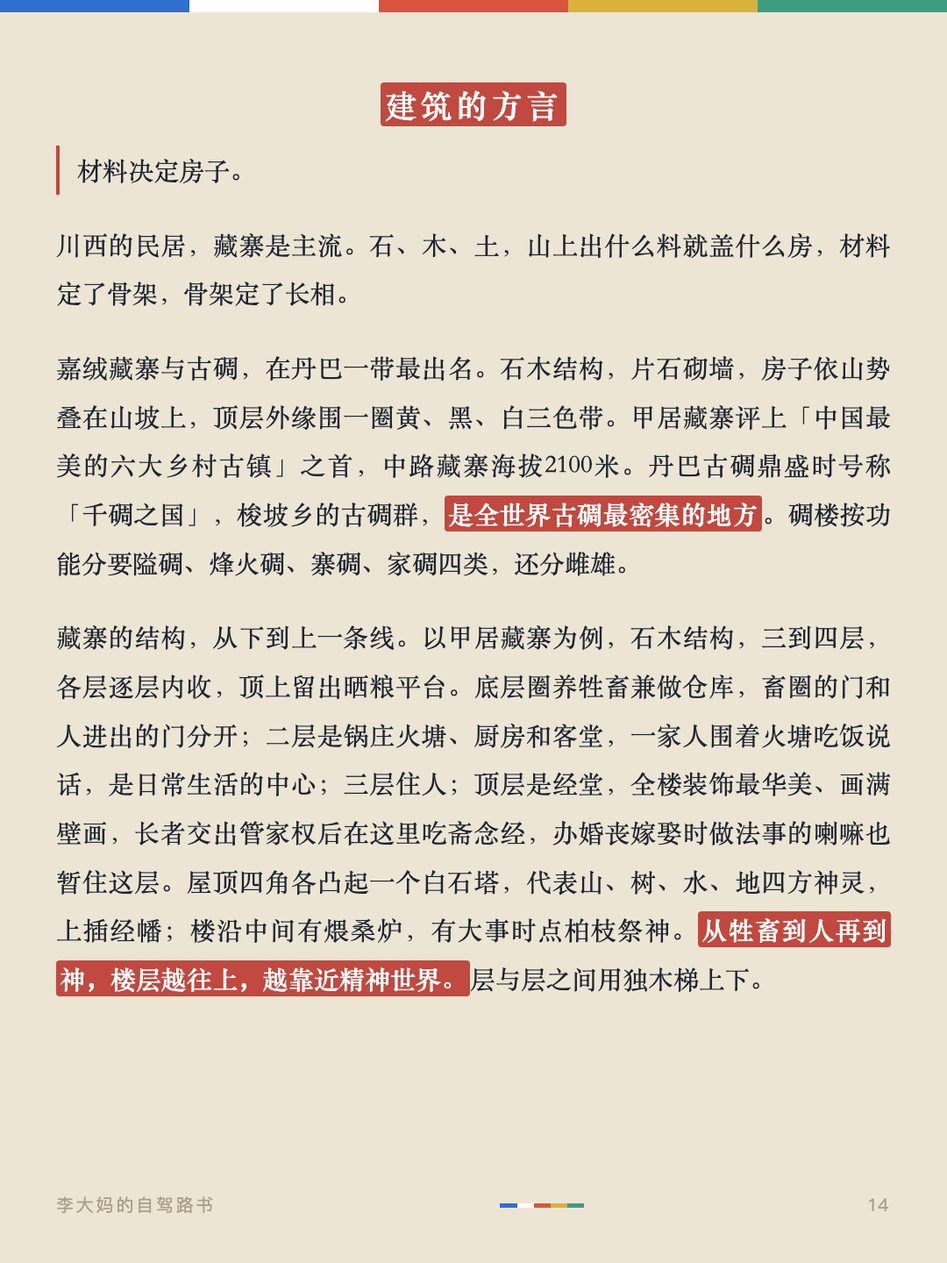
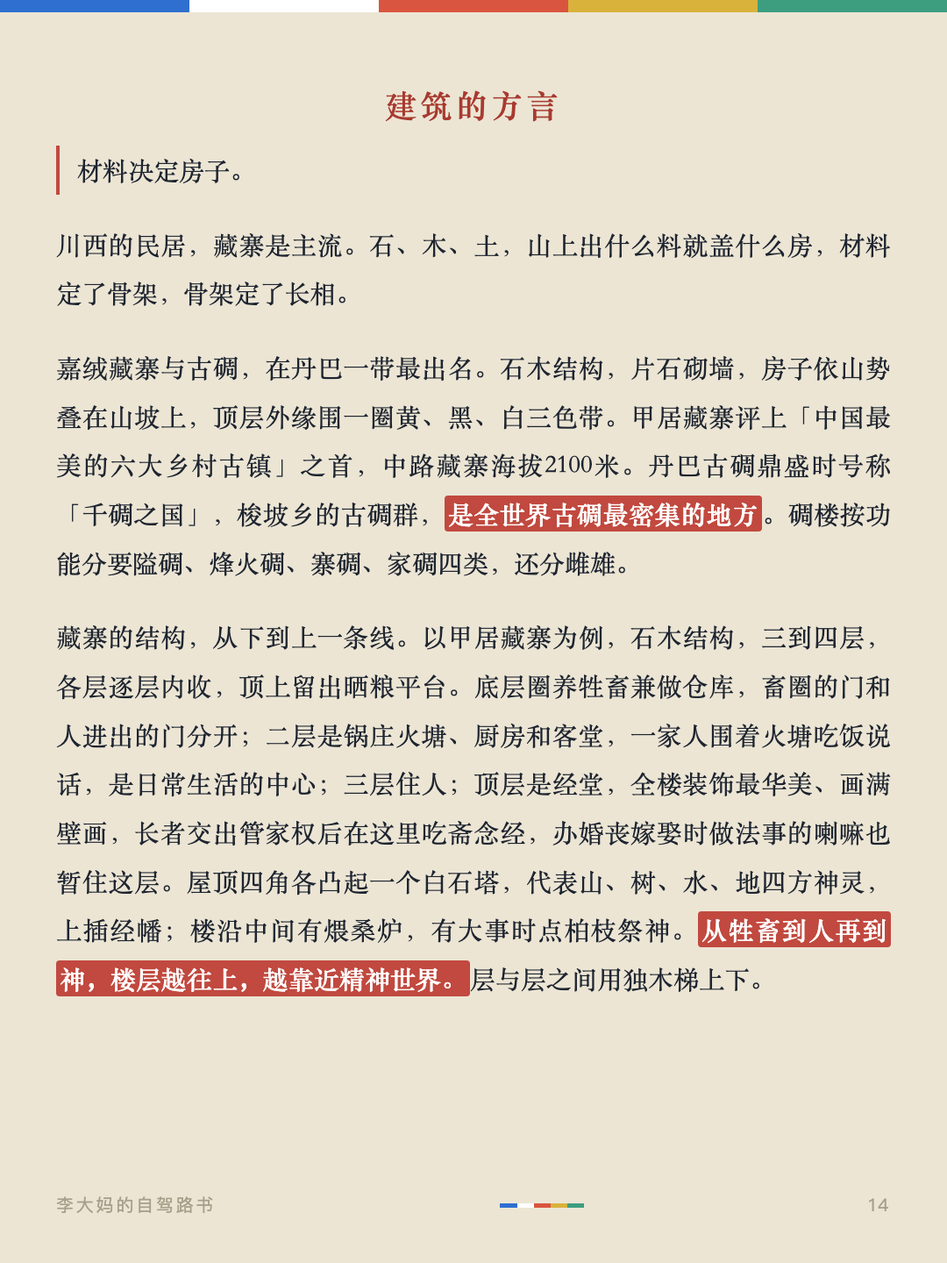
开篇六章速览章节名改红底反白；正文章节h2去strong；meta改衬线

Changed region(s): [[0.3972, 0.0625, 0.6111, 0.125]]

diff --git a/cards.html b/cards.html
@@ -57,7 +57,7 @@
     text-align:center;margin:26px 0 8px;
   }
   .card__meta{
-    font-family:var(--sans);font-size:22px;line-height:1.7;
+    font-family:var(--serif);font-size:22px;line-height:1.7;
     text-align:center;color:var(--dim);margin-bottom:6px;
   }
 
@@ -92,8 +92,8 @@
     padding:16px 2px;
   }
   .card__keys li:last-child{border-bottom:none;}
-  .card__keys li b{
-    color:var(--vermilion);font-weight:600;font-size:26px;
+  .card__keys li strong{
+    font-size:26px;
     font-family:var(--sans);letter-spacing:.06em;white-space:nowrap;
   }
 
@@ -122,33 +122,33 @@
 </head>
 <body>
 
-<div class="card" id="card1"><div class="flag" aria-hidden="true"><span style="background:var(--flag-blue)"></span><span style="background:var(--flag-white)"></span><span style="background:var(--flag-red)"></span><span style="background:var(--flag-yellow)"></span><span style="background:var(--flag-green)"></span></div><div class="card__inner"><div class="card__kicker">李大妈的自驾路书</div><h1><strong>川西自驾行前笔记</strong></h1><p class="card__intro">川西自驾是一门功课：海拔怎么排、山河怎么切、车怎么开、信仰怎么认、手艺在哪儿、房子为什么长这样。</p><p class="card__meta">我习惯在行前把零碎信息检索、整理成笔记，当出行线索。笔记更新于2026年8月18日。封路、天气、信号等信息随季节变化，出发前以官方信息为准。</p><h2>开篇　六章速览</h2><ul class="card__keys"><li><span>海拔决定秩序</span><b>一 高原的秩序</b></li> <li><span>山河决定地图</span><b>二 山河的地图</b></li> <li><span>车是腿，慢是快</span><b>三 路上的驾驶学</b></li> <li><span>看墙色认教派</span><b>四 信仰的世界</b></li> <li><span>手艺是还在运转的产业</span><b>五 手艺的文明</b></li> <li><span>材料决定房子</span><b>六 建筑的方言</b></li></ul><div class="card__foot"><span></span><span class="foot-flag" aria-hidden="true"><span style="background:var(--flag-blue)"></span><span style="background:var(--flag-white)"></span><span style="background:var(--flag-red)"></span><span style="background:var(--flag-yellow)"></span><span style="background:var(--flag-green)"></span></span><span>01</span></div></div></div>
+<div class="card" id="card1"><div class="flag" aria-hidden="true"><span style="background:var(--flag-blue)"></span><span style="background:var(--flag-white)"></span><span style="background:var(--flag-red)"></span><span style="background:var(--flag-yellow)"></span><span style="background:var(--flag-green)"></span></div><div class="card__inner"><div class="card__kicker">李大妈的自驾路书</div><h1><strong>川西自驾行前笔记</strong></h1><p class="card__intro">川西自驾是一门功课：海拔怎么排、山河怎么切、车怎么开、信仰怎么认、手艺在哪儿、房子为什么长这样。</p><p class="card__meta">我习惯在行前把零碎信息检索、整理成笔记，当出行线索。笔记更新于2026年8月18日。封路、天气、信号等信息随季节变化，出发前以官方信息为准。</p><h2>开篇　六章速览</h2><ul class="card__keys"><li><span>海拔决定秩序</span><strong>一 高原的秩序</strong></li> <li><span>山河决定地图</span><strong>二 山河的地图</strong></li> <li><span>车是腿，慢是快</span><strong>三 路上的驾驶学</strong></li> <li><span>看墙色认教派</span><strong>四 信仰的世界</strong></li> <li><span>手艺是还在运转的产业</span><strong>五 手艺的文明</strong></li> <li><span>材料决定房子</span><strong>六 建筑的方言</strong></li></ul><div class="card__foot"><span></span><span class="foot-flag" aria-hidden="true"><span style="background:var(--flag-blue)"></span><span style="background:var(--flag-white)"></span><span style="background:var(--flag-red)"></span><span style="background:var(--flag-yellow)"></span><span style="background:var(--flag-green)"></span></span><span>01</span></div></div></div>
 
 <div class="card" id="card2"><div class="flag" aria-hidden="true"><span style="background:var(--flag-blue)"></span><span style="background:var(--flag-white)"></span><span style="background:var(--flag-red)"></span><span style="background:var(--flag-yellow)"></span><span style="background:var(--flag-green)"></span></div><div class="card__inner"><h3>与人相处</h3><p><strong>牧民。</strong> 牛羊是牧民的主要家当。遇到牧群，放慢车速、不鸣笛，等它们过。拍牧民和牲畜，先打招呼再举相机。牧场的帐篷和围栏，不随便进。</p><p><strong>匠人。</strong> 进工坊先问能不能看，问手艺、问工序，匠人愿意聊就聊。工具和材料不上手碰。买现货，半成品和机压仿品不碰。</p><p><strong>僧侣。</strong> 称呼用「师父」或「上师」。进大殿脱帽、轻声、顺时针走，不拍照、不指佛像。法会时安静看，不打断、不围观起哄。</p><p><strong>司机和本地人。</strong> 见面一句「扎西德勒」，气氛就开了。问路、问价，态度客气，多数人都愿意答。高原上的人大多直接，不绕弯，打交道也直接。</p><p><strong>买东西。</strong> 讲好价就认，不反复缠价。看上了再还价，压完不买最伤和气。</p><p><strong>拍照。</strong> 拍人先问，拍寺院内部和法会先看有没有禁令。相机镜头对着人的时候，先问一句，多数人会同意的。</p><div class="card__foot"><span>李大妈的自驾路书</span><span class="foot-flag" aria-hidden="true"><span style="background:var(--flag-blue)"></span><span style="background:var(--flag-white)"></span><span style="background:var(--flag-red)"></span><span style="background:var(--flag-yellow)"></span><span style="background:var(--flag-green)"></span></span><span>02</span></div></div></div>
 
-<div class="card" id="card3"><div class="flag" aria-hidden="true"><span style="background:var(--flag-blue)"></span><span style="background:var(--flag-white)"></span><span style="background:var(--flag-red)"></span><span style="background:var(--flag-yellow)"></span><span style="background:var(--flag-green)"></span></div><div class="card__inner"><h2><strong>高原的秩序</strong></h2><p class="card__lead">海拔决定秩序。</p><p>进川西先认海拔。<strong>3000米是一道门槛</strong>，多数人的高反从这里开始。行程按海拔排，不按景点排：一天的路程控制在两三小时山路，下午留白看天，天气不对就提前收车。景点不会消失，路况和天气才是当天的变量。</p><p>窗口期。<strong>5到6月、9到10月中是全年最稳的时段</strong>。雨季6到8月以夜雨为主，白天多数能走。冬季也能走，但救援半径长，一台车陷在无人垭口，代价远超省下的时间。</p><p>防高反。从低到高慢慢爬，头两天不在3500米以上过夜。氧气不足的典型信号是头痛、睡不着、没胃口，多数人两三天能适应。乙酰唑胺遵医嘱提前吃，布洛芬缓解头痛，红景天提前一周吃，只作辅助。指夹式血氧仪测血氧，<strong>掉到90%以下就停，不硬撑</strong>。夜里头痛加重、白天精神很差、走路发飘，是危险信号，撤到低海拔。</p><p>补给认准县城。<strong>进县城加满油</strong>，一离开县城就默认补给消失，往深处走，一律当天往返。</p><p>离线地图出发前下好，<strong>自救物资可以不用，但不能没有</strong>。冬季走，车上常备防滑链。</p><div class="card__foot"><span>李大妈的自驾路书</span><span class="foot-flag" aria-hidden="true"><span style="background:var(--flag-blue)"></span><span style="background:var(--flag-white)"></span><span style="background:var(--flag-red)"></span><span style="background:var(--flag-yellow)"></span><span style="background:var(--flag-green)"></span></span><span>03</span></div></div></div>
+<div class="card" id="card3"><div class="flag" aria-hidden="true"><span style="background:var(--flag-blue)"></span><span style="background:var(--flag-white)"></span><span style="background:var(--flag-red)"></span><span style="background:var(--flag-yellow)"></span><span style="background:var(--flag-green)"></span></div><div class="card__inner"><h2>高原的秩序</h2><p class="card__lead">海拔决定秩序。</p><p>进川西先认海拔。<strong>3000米是一道门槛</strong>，多数人的高反从这里开始。行程按海拔排，不按景点排：一天的路程控制在两三小时山路，下午留白看天，天气不对就提前收车。景点不会消失，路况和天气才是当天的变量。</p><p>窗口期。<strong>5到6月、9到10月中是全年最稳的时段</strong>。雨季6到8月以夜雨为主，白天多数能走。冬季也能走，但救援半径长，一台车陷在无人垭口，代价远超省下的时间。</p><p>防高反。从低到高慢慢爬，头两天不在3500米以上过夜。氧气不足的典型信号是头痛、睡不着、没胃口，多数人两三天能适应。乙酰唑胺遵医嘱提前吃，布洛芬缓解头痛，红景天提前一周吃，只作辅助。指夹式血氧仪测血氧，<strong>掉到90%以下就停，不硬撑</strong>。夜里头痛加重、白天精神很差、走路发飘，是危险信号，撤到低海拔。</p><p>补给认准县城。<strong>进县城加满油</strong>，一离开县城就默认补给消失，往深处走，一律当天往返。</p><p>离线地图出发前下好，<strong>自救物资可以不用，但不能没有</strong>。冬季走，车上常备防滑链。</p><div class="card__foot"><span>李大妈的自驾路书</span><span class="foot-flag" aria-hidden="true"><span style="background:var(--flag-blue)"></span><span style="background:var(--flag-white)"></span><span style="background:var(--flag-red)"></span><span style="background:var(--flag-yellow)"></span><span style="background:var(--flag-green)"></span></span><span>03</span></div></div></div>
 
-<div class="card" id="card4"><div class="flag" aria-hidden="true"><span style="background:var(--flag-blue)"></span><span style="background:var(--flag-white)"></span><span style="background:var(--flag-red)"></span><span style="background:var(--flag-yellow)"></span><span style="background:var(--flag-green)"></span></div><div class="card__inner"><h2><strong>山河的地图</strong></h2><p class="card__lead">山河决定地图。山脉怎么切，路就怎么修。</p><p>川西怎么来的。约4000万到5000万年前，印度板块撞上欧亚板块，把一片浅海抬成陆地，就是青藏高原，川西在高原的东南缘。碰撞到现在没停，高原还在缓慢升高。</p><p>山脉全是南北走向。横断山把川西切成一列列山岭，从东往西：邛崃山，四姑娘山在主脊上；大雪山，贡嘎山海拔7508.9米，蜀山之王；沙鲁里山；雀儿山。山与山之间夹着河谷，路顺着河谷修，镇子落在河谷里。<strong>川西的聚落跟着山河走，不跟着行政区划走。</strong></p><p>河流往三处去。东部是大渡河，小金、金川、丹巴都在它的水系里；雅砻江从甘孜县城边流过；金沙江是德格的西界，德格县城在金沙江东岸。三条江各走各的，最后都汇进长江。</p><p>海子是古冰川留下的湖。冰期冰川刨出的洼地积水成湖，理塘到稻城之间的海子山，古冰川退去后留下1145个高原湖泊。单个看，康定的木格措、九龙的伍须海、巴塘的措普湖各有各的颜色，德格雀儿山下的新路海紧挨着雪峰。</p><p>川西地震多，因为它在鲜水河断裂带上。这条断裂带从中部纵贯，历史上强震不断。对旅行者，最实在的是<strong>路况随时可能因塌方管制</strong>；很多陡崖和河谷的走向，就是断裂带运动的痕迹。</p><div class="card__foot"><span>李大妈的自驾路书</span><span class="foot-flag" aria-hidden="true"><span style="background:var(--flag-blue)"></span><span style="background:var(--flag-white)"></span><span style="background:var(--flag-red)"></span><span style="background:var(--flag-yellow)"></span><span style="background:var(--flag-green)"></span></span><span>04</span></div></div></div>
+<div class="card" id="card4"><div class="flag" aria-hidden="true"><span style="background:var(--flag-blue)"></span><span style="background:var(--flag-white)"></span><span style="background:var(--flag-red)"></span><span style="background:var(--flag-yellow)"></span><span style="background:var(--flag-green)"></span></div><div class="card__inner"><h2>山河的地图</h2><p class="card__lead">山河决定地图。山脉怎么切，路就怎么修。</p><p>川西怎么来的。约4000万到5000万年前，印度板块撞上欧亚板块，把一片浅海抬成陆地，就是青藏高原，川西在高原的东南缘。碰撞到现在没停，高原还在缓慢升高。</p><p>山脉全是南北走向。横断山把川西切成一列列山岭，从东往西：邛崃山，四姑娘山在主脊上；大雪山，贡嘎山海拔7508.9米，蜀山之王；沙鲁里山；雀儿山。山与山之间夹着河谷，路顺着河谷修，镇子落在河谷里。<strong>川西的聚落跟着山河走，不跟着行政区划走。</strong></p><p>河流往三处去。东部是大渡河，小金、金川、丹巴都在它的水系里；雅砻江从甘孜县城边流过；金沙江是德格的西界，德格县城在金沙江东岸。三条江各走各的，最后都汇进长江。</p><p>海子是古冰川留下的湖。冰期冰川刨出的洼地积水成湖，理塘到稻城之间的海子山，古冰川退去后留下1145个高原湖泊。单个看，康定的木格措、九龙的伍须海、巴塘的措普湖各有各的颜色，德格雀儿山下的新路海紧挨着雪峰。</p><p>川西地震多，因为它在鲜水河断裂带上。这条断裂带从中部纵贯，历史上强震不断。对旅行者，最实在的是<strong>路况随时可能因塌方管制</strong>；很多陡崖和河谷的走向，就是断裂带运动的痕迹。</p><div class="card__foot"><span>李大妈的自驾路书</span><span class="foot-flag" aria-hidden="true"><span style="background:var(--flag-blue)"></span><span style="background:var(--flag-white)"></span><span style="background:var(--flag-red)"></span><span style="background:var(--flag-yellow)"></span><span style="background:var(--flag-green)"></span></span><span>04</span></div></div></div>
 
 <div class="card" id="card5"><div class="flag" aria-hidden="true"><span style="background:var(--flag-blue)"></span><span style="background:var(--flag-white)"></span><span style="background:var(--flag-red)"></span><span style="background:var(--flag-yellow)"></span><span style="background:var(--flag-green)"></span></div><div class="card__inner"><p>植被随海拔分层，从山谷到垭口一路换。2500米以下是针阔混交林；2500到3500米是云杉冷杉的针叶林，高山杜鹃夹在林里；3500到4500米是高山灌丛和高山草甸，冬虫夏草、雪茶都长在这一层；4500米以上是流石滩，雪莲贴着碎石长。<strong>同一条路翻几座山，一天走完四个植被带，别处南北几千公里才有的植被变化，在这里按海拔一层层排</strong>。</p><p>吃的也跟海拔走。青稞是高原的当家作物，炒熟磨成糌粑，拌上酥油茶捏成团，是藏人的日常主食；酥油茶用砖茶和酥油熬，热量高、解渴御寒，当地有<strong>「宁可三日无肉，不可一日无茶」</strong>的说法。牦牛在海拔3500米以上放养，肉干、火锅、炖汤都常见；血肠是待客的上等菜，牛血或羊血和肉丁灌进小肠煮熟。松茸这类菌子长在森林里，集中在金沙江、雅砻江、大渡河上中游的高山峡谷，夏秋雨后出得多，炖鸡、涮锅都常吃。这些不用刻意找，路边饭馆的菜单上就有。</p><div class="card__foot"><span>李大妈的自驾路书</span><span class="foot-flag" aria-hidden="true"><span style="background:var(--flag-blue)"></span><span style="background:var(--flag-white)"></span><span style="background:var(--flag-red)"></span><span style="background:var(--flag-yellow)"></span><span style="background:var(--flag-green)"></span></span><span>05</span></div></div></div>
 
-<div class="card" id="card6"><div class="flag" aria-hidden="true"><span style="background:var(--flag-blue)"></span><span style="background:var(--flag-white)"></span><span style="background:var(--flag-red)"></span><span style="background:var(--flag-yellow)"></span><span style="background:var(--flag-green)"></span></div><div class="card__inner"><h2><strong>路上的驾驶学</strong></h2><p class="card__lead">车是腿，慢是快。一半技术，一半克制。</p><p>川西路上要让的，是大货车和牧民的牛羊。弯道不超车。<strong>让路是这条路的默认礼节</strong>。</p><p>高原开车有两个隐性风险。长下坡一直踩刹车会热衰减，要用低挡位和发动机制动；超车动力衰减，要留出比平原长得多的余量。冰雪路面上，四驱也一样打滑，<strong>慢才是安全</strong>。</p><p>手机信号在县城和景区都有，支线基本没有。<strong>离开主路之前，给家人或朋友发一个位置</strong>，让他们知道人在哪。进了支线，信号就断了，把没信号当默认状态。应急手段：中国电信有手机直连卫星业务，华为、小米等部分手机开通后，不换卡不换号就能在无信号区通话、发定位；雅安318自驾大本营有全国首个城市卫星服务站，可以租天通卫星设备，按天十元左右。</p><h3>加油</h3><p>加油站集中在县城和几个大镇，见油就加。认准中石油、中石化，避开私人黑站。理塘到稻城之间约200公里没有加油站，G317甘孜到德格一带靠马尼干戈这类节点补给。<strong>油箱过半就找下一个县城</strong>。</p><div class="card__foot"><span>李大妈的自驾路书</span><span class="foot-flag" aria-hidden="true"><span style="background:var(--flag-blue)"></span><span style="background:var(--flag-white)"></span><span style="background:var(--flag-red)"></span><span style="background:var(--flag-yellow)"></span><span style="background:var(--flag-green)"></span></span><span>06</span></div></div></div>
+<div class="card" id="card6"><div class="flag" aria-hidden="true"><span style="background:var(--flag-blue)"></span><span style="background:var(--flag-white)"></span><span style="background:var(--flag-red)"></span><span style="background:var(--flag-yellow)"></span><span style="background:var(--flag-green)"></span></div><div class="card__inner"><h2>路上的驾驶学</h2><p class="card__lead">车是腿，慢是快。一半技术，一半克制。</p><p>川西路上要让的，是大货车和牧民的牛羊。弯道不超车。<strong>让路是这条路的默认礼节</strong>。</p><p>高原开车有两个隐性风险。长下坡一直踩刹车会热衰减，要用低挡位和发动机制动；超车动力衰减，要留出比平原长得多的余量。冰雪路面上，四驱也一样打滑，<strong>慢才是安全</strong>。</p><p>手机信号在县城和景区都有，支线基本没有。<strong>离开主路之前，给家人或朋友发一个位置</strong>，让他们知道人在哪。进了支线，信号就断了，把没信号当默认状态。应急手段：中国电信有手机直连卫星业务，华为、小米等部分手机开通后，不换卡不换号就能在无信号区通话、发定位；雅安318自驾大本营有全国首个城市卫星服务站，可以租天通卫星设备，按天十元左右。</p><h3>加油</h3><p>加油站集中在县城和几个大镇，见油就加。认准中石油、中石化，避开私人黑站。理塘到稻城之间约200公里没有加油站，G317甘孜到德格一带靠马尼干戈这类节点补给。<strong>油箱过半就找下一个县城</strong>。</p><div class="card__foot"><span>李大妈的自驾路书</span><span class="foot-flag" aria-hidden="true"><span style="background:var(--flag-blue)"></span><span style="background:var(--flag-white)"></span><span style="background:var(--flag-red)"></span><span style="background:var(--flag-yellow)"></span><span style="background:var(--flag-green)"></span></span><span>06</span></div></div></div>
 
 <div class="card" id="card7"><div class="flag" aria-hidden="true"><span style="background:var(--flag-blue)"></span><span style="background:var(--flag-white)"></span><span style="background:var(--flag-red)"></span><span style="background:var(--flag-yellow)"></span><span style="background:var(--flag-green)"></span></div><div class="card__inner"><h3>充电</h3><p>川西这两年变化快。2025年6月甘孜州18个公路养护站和14个快充站投运，理塘到稻城段充电桩最大间距125公里；318沿线超300个充电桩，快充占七成以上。密度从东往西递减：成都到康定每30到50公里一个快充；康定、新都桥、雅江、理塘每80到150公里；理塘往稻城亚丁、新都桥往塔公八美每150到200公里。冷嘎措、格聂、若尔盖穿越段还是盲区。实际体验要打折：约一成五的桩故障或被燃油车占位，节假日热门站排队可能超一小时。高原续航缩水约三四成。<strong>电量低于三成就找桩</strong>，进景区前在县城充到八成以上。查桩用特来电、国网e充电、星星充电的App，或高德的新能源模式。</p><h3>封路信息</h3><p>两类封路最常见：汛期6到8月塌方落石，抢修期间半幅放行或管制；冬季11月到次年3、4月冬管，比如九绵高速夜间20点到次日8点禁行，夹金山段整个冬天双向禁行，理小路冬天全段禁行。截至2026年8月17日，阿坝州正实行货车临时管制（过境4轴及以上货车白天7点到21点禁行），同时处在汛期，山洪预警可能随时发布。<strong>G317马尔康到观音桥段，自2025年11月红旗特大桥垮塌后一直中断</strong>，绕行走壤塘、阿坝、红原方向，约多3小时；官方便道工程预计2026年9月底至10月初通车。官方渠道：阿坝州政府官网阿坝路况专栏、四川发布和成都发布公众号、高速救援12122、报警96122。<strong>官方路况和高德，出发当天交叉核对</strong>。</p><div class="card__foot"><span>李大妈的自驾路书</span><span class="foot-flag" aria-hidden="true"><span style="background:var(--flag-blue)"></span><span style="background:var(--flag-white)"></span><span style="background:var(--flag-red)"></span><span style="background:var(--flag-yellow)"></span><span style="background:var(--flag-green)"></span></span><span>07</span></div></div></div>
 
-<div class="card" id="card8"><div class="flag" aria-hidden="true"><span style="background:var(--flag-blue)"></span><span style="background:var(--flag-white)"></span><span style="background:var(--flag-red)"></span><span style="background:var(--flag-yellow)"></span><span style="background:var(--flag-green)"></span></div><div class="card__inner"><h2><strong>信仰的世界</strong></h2><p class="card__lead">看墙色，认教派。</p><p>川西在藏文化版图里的位置。藏区习惯分成三大块：拉萨一带的卫藏，青海甘肃的安多，还有以甘孜、昌都为核心的康巴。康巴人性格外放，「康巴汉子」的名声就是这么来的。和卫藏、安多不同，川西<strong>没有哪个教派一家独大</strong>。甘孜州登记的藏传佛教寺院有515座，宁玛、格鲁、萨迦、噶举、苯教五大教派齐全，哪个都占不到一半。一次看全这些派别，别处凑不齐。</p><p>认教派，看寺庙外墙的颜色。宁玛派叫<strong>红教</strong>，是最古老的派别，多随牧区分布。萨迦派叫<strong>花教</strong>，寺墙刷红、白、黑三色条纹，据说是文殊、观音、金刚手三位菩萨的象征。噶举派叫<strong>白教</strong>，叫法来自早期僧人穿白衣的传承，四川藏区的祖寺是德格的八邦寺。格鲁派叫<strong>黄教</strong>，传入最晚，理塘的长青春科尔寺是康区最早的格鲁派寺院。还有苯教，比藏传佛教更古老的本地信仰，没有对应的颜色称呼，它在川西的地位比在西藏老家还高，<strong>阿坝县的郎依寺，是国内外现存规模最大的苯教寺院</strong>，阿坝金川的雍忠拉顶寺一带被称为「第二象雄」——也就是苯教文化的第二个中心。</p><p>最特别的是德格。历代德格土司推行「不分教派、一律扶持」的政策，硬是把五大教派全留在自家地盘上，这在藏区很少见，<strong>德格也因此成了藏文化的三大中心之一</strong>。</p><div class="card__foot"><span>李大妈的自驾路书</span><span class="foot-flag" aria-hidden="true"><span style="background:var(--flag-blue)"></span><span style="background:var(--flag-white)"></span><span style="background:var(--flag-red)"></span><span style="background:var(--flag-yellow)"></span><span style="background:var(--flag-green)"></span></span><span>08</span></div></div></div>
+<div class="card" id="card8"><div class="flag" aria-hidden="true"><span style="background:var(--flag-blue)"></span><span style="background:var(--flag-white)"></span><span style="background:var(--flag-red)"></span><span style="background:var(--flag-yellow)"></span><span style="background:var(--flag-green)"></span></div><div class="card__inner"><h2>信仰的世界</h2><p class="card__lead">看墙色，认教派。</p><p>川西在藏文化版图里的位置。藏区习惯分成三大块：拉萨一带的卫藏，青海甘肃的安多，还有以甘孜、昌都为核心的康巴。康巴人性格外放，「康巴汉子」的名声就是这么来的。和卫藏、安多不同，川西<strong>没有哪个教派一家独大</strong>。甘孜州登记的藏传佛教寺院有515座，宁玛、格鲁、萨迦、噶举、苯教五大教派齐全，哪个都占不到一半。一次看全这些派别，别处凑不齐。</p><p>认教派，看寺庙外墙的颜色。宁玛派叫<strong>红教</strong>，是最古老的派别，多随牧区分布。萨迦派叫<strong>花教</strong>，寺墙刷红、白、黑三色条纹，据说是文殊、观音、金刚手三位菩萨的象征。噶举派叫<strong>白教</strong>，叫法来自早期僧人穿白衣的传承，四川藏区的祖寺是德格的八邦寺。格鲁派叫<strong>黄教</strong>，传入最晚，理塘的长青春科尔寺是康区最早的格鲁派寺院。还有苯教，比藏传佛教更古老的本地信仰，没有对应的颜色称呼，它在川西的地位比在西藏老家还高，<strong>阿坝县的郎依寺，是国内外现存规模最大的苯教寺院</strong>，阿坝金川的雍忠拉顶寺一带被称为「第二象雄」——也就是苯教文化的第二个中心。</p><p>最特别的是德格。历代德格土司推行「不分教派、一律扶持」的政策，硬是把五大教派全留在自家地盘上，这在藏区很少见，<strong>德格也因此成了藏文化的三大中心之一</strong>。</p><div class="card__foot"><span>李大妈的自驾路书</span><span class="foot-flag" aria-hidden="true"><span style="background:var(--flag-blue)"></span><span style="background:var(--flag-white)"></span><span style="background:var(--flag-red)"></span><span style="background:var(--flag-yellow)"></span><span style="background:var(--flag-green)"></span></span><span>08</span></div></div></div>
 
 <div class="card" id="card9"><div class="flag" aria-hidden="true"><span style="background:var(--flag-blue)"></span><span style="background:var(--flag-white)"></span><span style="background:var(--flag-red)"></span><span style="background:var(--flag-yellow)"></span><span style="background:var(--flag-green)"></span></div><div class="card__inner"><p>路边的符号，各有含义。经幡也叫风马旗，五种颜色对应蓝天、白云、红火、江河、大地，挂在山顶风口，<strong>藏人相信风吹动一次等于诵经一次</strong>。玛尼堆是刻了六字真言的石块堆，路人经过会念着真言添一块石头，不搬走当纪念品。白塔源于古印度的覆钵式佛塔，路过捡块石头放上去，或献条哈达许愿。德格佐钦寺的白塔是尼泊尔风格，方形塔顶四面画着佛眼，<strong>和加德满都的博达哈大佛塔同一形制</strong>，博达哈是全世界最大的覆钵塔。转经筒里装着经文，转一圈等于念诵一遍，藏人转经廊、转佛塔、转寺院都是这个逻辑。六字真言「唵嘛呢叭咪吽」是观世音菩萨的总持咒，被看作雪域佛法最根本的念诵。</p><p>和信仰打交道，有几条规矩：<strong>绕行一律顺时针，只有苯教是逆时针</strong>。磕长头是身敬、语敬、意敬三者合一，额头叩地的瞬间，心里同时念咒、观想，这是他们能磕几千公里的原因。煨桑是烧香柏枝，敬献给神佛的香火，也是祈愿的仪式。献哈达要看对象：白色最普遍，黄色献给活佛和高僧，五彩哈达被视为菩萨的衣裳，只在隆重场合用。<strong>哈达只递到对方手里，不能挂脖子上，只有长辈给晚辈才往脖子上搭</strong>。天葬是藏人把遗体布施给神鹰，被认为是最高的舍身布施，<strong>全程严禁围观、拍照，当地有明文规定，连打听都不要</strong>。另有几条硬规矩：<strong>不摸别人的头，佛像、唐卡、经书不指</strong>，非要指就五指并拢、手心朝上，不进人家供奉的佛堂，不取献给塔上的供品，过门槛不踩。</p><div class="card__foot"><span>李大妈的自驾路书</span><span class="foot-flag" aria-hidden="true"><span style="background:var(--flag-blue)"></span><span style="background:var(--flag-white)"></span><span style="background:var(--flag-red)"></span><span style="background:var(--flag-yellow)"></span><span style="background:var(--flag-green)"></span></span><span>09</span></div></div></div>
 
 <div class="card" id="card10"><div class="flag" aria-hidden="true"><span style="background:var(--flag-blue)"></span><span style="background:var(--flag-white)"></span><span style="background:var(--flag-red)"></span><span style="background:var(--flag-yellow)"></span><span style="background:var(--flag-green)"></span></div><div class="card__inner"><p>川西的佛学院，把藏地的学问办在草原和山沟里。寺院的分科叫「五明」：工巧明是工艺，医方明是医学，声明是语言文字，因明是逻辑论辩，内明是佛学；再加上修辞、辞藻、韵律、戏剧、历算五科，合称「十明」。色达的喇荣、白玉的亚青、德格的佐钦，都是宁玛派的大佛学院，学通五明的僧人，藏语称「班智达」。</p><p>三大佛学院里，亚青寺最出名的是觉姆岛。它在白玉县昌台草原，1985年由阿秋仁波切创建，是宁玛派的修行地。昌曲河绕寺流过，把女众修行区围成一座河心岛，就是「觉姆岛」，岛上密布上万间绛红色小木屋，住的是觉姆，也就是藏地的女性出家人。屋子是她们自己伐木、夯土、一钉一板搭起来的，每间不足十平方米，屋顶压着塑料布和泥土。<strong>成年男性不上觉姆岛</strong>，岛外的男众不过桥。每年入冬，觉姆们钻进一间仅容一人的小屋，百日闭关，黄昏后才走出。山坡上立着一尊巨大的莲花生大师金像。</p><div class="card__foot"><span>李大妈的自驾路书</span><span class="foot-flag" aria-hidden="true"><span style="background:var(--flag-blue)"></span><span style="background:var(--flag-white)"></span><span style="background:var(--flag-red)"></span><span style="background:var(--flag-yellow)"></span><span style="background:var(--flag-green)"></span></span><span>10</span></div></div></div>
 
-<div class="card" id="card11"><div class="flag" aria-hidden="true"><span style="background:var(--flag-blue)"></span><span style="background:var(--flag-white)"></span><span style="background:var(--flag-red)"></span><span style="background:var(--flag-yellow)"></span><span style="background:var(--flag-green)"></span></div><div class="card__inner"><h2><strong>手艺的文明</strong></h2><p class="card__lead">还在挣钱的传承，才是活传承。</p><p>麦宿在德格县金沙江东岸的河谷里，六千多居民有两千多位工匠，分布在三十多个工坊，做十六种手工艺。黑陶、铜铸、唐卡、木雕、藏香、藏纸、藏戏面具、金银加工、牛羊毛编织，被称为「中国藏族传统手工艺之乡」。<strong>它不是摆在展柜里的「非遗秀」</strong>。寺庙要佛像法器，本地人过日子要锅碗和经堂装饰，订单一直不断。麦宿进出不易，外头的东西不好运进来，要用的、要供的都得自己做，手艺就一代代传了下来。最出名的铜铸佛像，老匠人夏雷尼玛的鎏金铜是内地近乎失传的古法，他做的佛像因为工艺古朴精良，常被人冒充古董倒卖，甚至流到了国外。他女儿拍的《麦宿泥塑》纪录片，拿过国际手工艺视频大赛的一等奖。钦乐工坊还在用砂模、失蜡法铸利玛铜。后来县里建了扶贫车间，挂出「麦宿手造」的品牌，2024年还到成都开了集市。从一块铜皮到一尊佛像，工坊里能看到整套流程。手工工坊有现货，机压翻模的是仿品。</p><p>白玉河坡号称「格萨尔王的兵器库」，1300多年前就开始铸兵器，现在是国家级非遗「藏族金属锻造技艺」的代表，白玉藏刀最有名。13个行政村、230多家非遗工坊，<strong>是全国最大的藏族金属锻造群落</strong>，年订单超过1200万元。2025年8月，河坡手工艺文旅体融合园区开园，建了藏族金工博物馆。</p><div class="card__foot"><span>李大妈的自驾路书</span><span class="foot-flag" aria-hidden="true"><span style="background:var(--flag-blue)"></span><span style="background:var(--flag-white)"></span><span style="background:var(--flag-red)"></span><span style="background:var(--flag-yellow)"></span><span style="background:var(--flag-green)"></span></span><span>11</span></div></div></div>
+<div class="card" id="card11"><div class="flag" aria-hidden="true"><span style="background:var(--flag-blue)"></span><span style="background:var(--flag-white)"></span><span style="background:var(--flag-red)"></span><span style="background:var(--flag-yellow)"></span><span style="background:var(--flag-green)"></span></div><div class="card__inner"><h2>手艺的文明</h2><p class="card__lead">还在挣钱的传承，才是活传承。</p><p>麦宿在德格县金沙江东岸的河谷里，六千多居民有两千多位工匠，分布在三十多个工坊，做十六种手工艺。黑陶、铜铸、唐卡、木雕、藏香、藏纸、藏戏面具、金银加工、牛羊毛编织，被称为「中国藏族传统手工艺之乡」。<strong>它不是摆在展柜里的「非遗秀」</strong>。寺庙要佛像法器，本地人过日子要锅碗和经堂装饰，订单一直不断。麦宿进出不易，外头的东西不好运进来，要用的、要供的都得自己做，手艺就一代代传了下来。最出名的铜铸佛像，老匠人夏雷尼玛的鎏金铜是内地近乎失传的古法，他做的佛像因为工艺古朴精良，常被人冒充古董倒卖，甚至流到了国外。他女儿拍的《麦宿泥塑》纪录片，拿过国际手工艺视频大赛的一等奖。钦乐工坊还在用砂模、失蜡法铸利玛铜。后来县里建了扶贫车间，挂出「麦宿手造」的品牌，2024年还到成都开了集市。从一块铜皮到一尊佛像，工坊里能看到整套流程。手工工坊有现货，机压翻模的是仿品。</p><p>白玉河坡号称「格萨尔王的兵器库」，1300多年前就开始铸兵器，现在是国家级非遗「藏族金属锻造技艺」的代表，白玉藏刀最有名。13个行政村、230多家非遗工坊，<strong>是全国最大的藏族金属锻造群落</strong>，年订单超过1200万元。2025年8月，河坡手工艺文旅体融合园区开园，建了藏族金工博物馆。</p><div class="card__foot"><span>李大妈的自驾路书</span><span class="foot-flag" aria-hidden="true"><span style="background:var(--flag-blue)"></span><span style="background:var(--flag-white)"></span><span style="background:var(--flag-red)"></span><span style="background:var(--flag-yellow)"></span><span style="background:var(--flag-green)"></span></span><span>11</span></div></div></div>
 
 <div class="card" id="card12"><div class="flag" aria-hidden="true"><span style="background:var(--flag-blue)"></span><span style="background:var(--flag-white)"></span><span style="background:var(--flag-red)"></span><span style="background:var(--flag-yellow)"></span><span style="background:var(--flag-green)"></span></div><div class="card__inner"><p>壤塘在阿坝州，藏语意思是「财神居住的地方」，核心是觉囊文化。2010年建起第一个觉囊唐卡传习所，<strong>免费教贫困家庭的青少年，一学六到八年</strong>。现在有20多个传习所、3项国家级非遗，壤巴拉非遗传习创业园8万多平方米，聚集唐卡、藏医药、藏陶、藏毯等16类手艺，2024年产值两千多万元。县里还在北京、上海、成都、深圳设了传习基地，60名学员接过故宫藏品唐卡复制的项目。觉囊唐卡工坊进了全国「非遗工坊典型案例」。唐卡的颜色从矿石里磨出来：蓝用青金石，红用朱砂，绿用孔雀石，金是真金箔。矿物不含有机成分，见光不褪色，<strong>一张唐卡放几百年，颜色还是那样</strong>。</p><p>德格印经院本身是一门还在运转的印刷产业。1729年建，藏了32万余块雕版，其中古旧印版22.8万块，<strong>是全世界手工木刻印版藏量最多的地方</strong>。经版内容不止经文：宗教、历史、医学、天文历算、文学、艺术都有，「藏文化大百科全书」这个外号就是这么来的。</p><p>印刷是流水线工序：裁纸、泡纸、兑墨、研朱砂、印刷、晾晒、分页、核对、装订，十几道。印经书三人一组，一高一矮相对坐，高者固定印纸刷墨，矮者递纸、用卷布滚筒滚印，配合熟练的一天印2400张4800页。材料也讲究：<strong>藏纸用瑞香狼毒草的根，含毒，虫不蛀、鼠不咬</strong>；雕版用海拔3000米以上的红桦木，微火熏烤、水煮、烘干，刻好的版要过12次审校，在酥油里泡一天才算完成。</p><div class="card__foot"><span>李大妈的自驾路书</span><span class="foot-flag" aria-hidden="true"><span style="background:var(--flag-blue)"></span><span style="background:var(--flag-white)"></span><span style="background:var(--flag-red)"></span><span style="background:var(--flag-yellow)"></span><span style="background:var(--flag-green)"></span></span><span>12</span></div></div></div>
 
 <div class="card" id="card13"><div class="flag" aria-hidden="true"><span style="background:var(--flag-blue)"></span><span style="background:var(--flag-white)"></span><span style="background:var(--flag-red)"></span><span style="background:var(--flag-yellow)"></span><span style="background:var(--flag-green)"></span></div><div class="card__inner"><p><strong>印经院至今没通电</strong>，是怕火险伤经版，游客就着天光看印刷间。古旧经版现在限量印刷，近十年复刻了2.2万余块新版供印，古版封存，印版修复每年补刻230余块。2006年它进了国家级非遗，2009年被联合国教科文组织列入人类非物质文化遗产代表作名录。</p><div class="card__foot"><span>李大妈的自驾路书</span><span class="foot-flag" aria-hidden="true"><span style="background:var(--flag-blue)"></span><span style="background:var(--flag-white)"></span><span style="background:var(--flag-red)"></span><span style="background:var(--flag-yellow)"></span><span style="background:var(--flag-green)"></span></span><span>13</span></div></div></div>
 
-<div class="card" id="card14"><div class="flag" aria-hidden="true"><span style="background:var(--flag-blue)"></span><span style="background:var(--flag-white)"></span><span style="background:var(--flag-red)"></span><span style="background:var(--flag-yellow)"></span><span style="background:var(--flag-green)"></span></div><div class="card__inner"><h2><strong>建筑的方言</strong></h2><p class="card__lead">材料决定房子。</p><p>川西的民居，藏寨是主流。石、木、土，山上出什么料就盖什么房，材料定了骨架，骨架定了长相。</p><p>嘉绒藏寨与古碉，在丹巴一带最出名。石木结构，片石砌墙，房子依山势叠在山坡上，顶层外缘围一圈黄、黑、白三色带。甲居藏寨评上「中国最美的六大乡村古镇」之首，中路藏寨海拔2100米。丹巴古碉鼎盛时号称「千碉之国」，梭坡乡的古碉群，<strong>是全世界古碉最密集的地方</strong>。碉楼按功能分要隘碉、烽火碉、寨碉、家碉四类，还分雌雄。</p><p>藏寨的结构，从下到上一条线。以甲居藏寨为例，石木结构，三到四层，各层逐层内收，顶上留出晒粮平台。底层圈养牲畜兼做仓库，畜圈的门和人进出的门分开；二层是锅庄火塘、厨房和客堂，一家人围着火塘吃饭说话，是日常生活的中心；三层住人；顶层是经堂，全楼装饰最华美、画满壁画，长者交出管家权后在这里吃斋念经，办婚丧嫁娶时做法事的喇嘛也暂住这层。屋顶四角各凸起一个白石塔，代表山、树、水、地四方神灵，上插经幡；楼沿中间有煨桑炉，有大事时点柏枝祭神。<strong>从牲畜到人再到神，楼层越往上，越靠近精神世界。</strong>层与层之间用独木梯上下。</p><div class="card__foot"><span>李大妈的自驾路书</span><span class="foot-flag" aria-hidden="true"><span style="background:var(--flag-blue)"></span><span style="background:var(--flag-white)"></span><span style="background:var(--flag-red)"></span><span style="background:var(--flag-yellow)"></span><span style="background:var(--flag-green)"></span></span><span>14</span></div></div></div>
+<div class="card" id="card14"><div class="flag" aria-hidden="true"><span style="background:var(--flag-blue)"></span><span style="background:var(--flag-white)"></span><span style="background:var(--flag-red)"></span><span style="background:var(--flag-yellow)"></span><span style="background:var(--flag-green)"></span></div><div class="card__inner"><h2>建筑的方言</h2><p class="card__lead">材料决定房子。</p><p>川西的民居，藏寨是主流。石、木、土，山上出什么料就盖什么房，材料定了骨架，骨架定了长相。</p><p>嘉绒藏寨与古碉，在丹巴一带最出名。石木结构，片石砌墙，房子依山势叠在山坡上，顶层外缘围一圈黄、黑、白三色带。甲居藏寨评上「中国最美的六大乡村古镇」之首，中路藏寨海拔2100米。丹巴古碉鼎盛时号称「千碉之国」，梭坡乡的古碉群，<strong>是全世界古碉最密集的地方</strong>。碉楼按功能分要隘碉、烽火碉、寨碉、家碉四类，还分雌雄。</p><p>藏寨的结构，从下到上一条线。以甲居藏寨为例，石木结构，三到四层，各层逐层内收，顶上留出晒粮平台。底层圈养牲畜兼做仓库，畜圈的门和人进出的门分开；二层是锅庄火塘、厨房和客堂，一家人围着火塘吃饭说话，是日常生活的中心；三层住人；顶层是经堂，全楼装饰最华美、画满壁画，长者交出管家权后在这里吃斋念经，办婚丧嫁娶时做法事的喇嘛也暂住这层。屋顶四角各凸起一个白石塔，代表山、树、水、地四方神灵，上插经幡；楼沿中间有煨桑炉，有大事时点柏枝祭神。<strong>从牲畜到人再到神，楼层越往上，越靠近精神世界。</strong>层与层之间用独木梯上下。</p><div class="card__foot"><span>李大妈的自驾路书</span><span class="foot-flag" aria-hidden="true"><span style="background:var(--flag-blue)"></span><span style="background:var(--flag-white)"></span><span style="background:var(--flag-red)"></span><span style="background:var(--flag-yellow)"></span><span style="background:var(--flag-green)"></span></span><span>14</span></div></div></div>
 
 <div class="card" id="card15"><div class="flag" aria-hidden="true"><span style="background:var(--flag-blue)"></span><span style="background:var(--flag-white)"></span><span style="background:var(--flag-red)"></span><span style="background:var(--flag-yellow)"></span><span style="background:var(--flag-green)"></span></div><div class="card__inner"><p>古碉的来历比寨子长。雏形约3500年前就出现，和丹巴中路罕额依的新石器遗址一脉相承。汉代，这一带的冉駹夷为抵御北方游牧羌人的进攻，在石室基础上建起碉楼，《后汉书》记载他们「累石为室，高者至十余丈，为邛笼」，邛笼就是碉楼。明清碉楼最多时约3000座。乾隆两次用兵大小金川，前后打了十几年，金川「地险碉坚」，清军动火炮才拿下。防御做得很细：碉门开在二层楼高的位置，战时收独木梯、关碉门；射击孔做成喇叭形，墙外收窄、墙内放宽，挡得住箭，又不挡视线；墙底厚1.5到2米，顶部收薄到0.5到0.6米。还有一条老规矩：谁家生了男孩就修高碉，每长一岁加修一层，<strong>长到18岁碉楼正好18层，成人礼上把炼成的钢刀交给他</strong>。</p><p>道孚崩科，是另一类藏式民居，骨架全用木头。「崩」是木头架起来，「科」是房子。圆木对劈、卯榫咬合，<strong>整栋房不用一颗铁钉</strong>。1973年炉霍大地震，片石墙房成片倒塌，木构的崩科扛住了，这一带重建时普遍改用这套做法，道孚、炉霍现存的民居就以崩科为主。崩科大小以「空」计数，四根柱子之间算一空，约二十平方米。室内精雕细镂、描金绘彩，外号「民间故宫」。</p><div class="card__foot"><span>李大妈的自驾路书</span><span class="foot-flag" aria-hidden="true"><span style="background:var(--flag-blue)"></span><span style="background:var(--flag-white)"></span><span style="background:var(--flag-red)"></span><span style="background:var(--flag-yellow)"></span><span style="background:var(--flag-green)"></span></span><span>15</span></div></div></div>
 

diff --git a/index.html b/index.html
@@ -72,7 +72,7 @@
   .hero .flag{margin:0 auto;max-width:240px;transform:scaleX(0);transform-origin:center;transition:transform 1.1s cubic-bezier(.2,.7,.2,1);}
   body.loaded .hero .flag{transform:scaleX(1);}
   .hero__meta{
-    font-family:var(--sans);font-size:12px;letter-spacing:.1em;
+    font-family:var(--serif);font-size:12px;letter-spacing:.1em;
     color:var(--dim);text-align:center;line-height:1.9;
     max-width:31em;margin:2.5vh auto 5vh;
   }
@@ -201,12 +201,12 @@
     <section class="part" id="key">
       <div class="part__head"><span class="part__no" aria-hidden="true">序</span><h2>开篇　六章速览</h2></div>
       <ul class="keys">
-        <li><span>海拔决定秩序</span><b>一　高原的秩序</b></li>
-        <li><span>山河决定地图</span><b>二　山河的地图</b></li>
-        <li><span>车是腿，慢是快</span><b>三　路上的驾驶学</b></li>
-        <li><span>看墙色认教派</span><b>四　信仰的世界</b></li>
-        <li><span>手艺是还在运转的产业</span><b>五　手艺的文明</b></li>
-        <li><span>材料决定房子</span><b>六　建筑的方言</b></li>
+        <li><span>海拔决定秩序</span><strong>一　高原的秩序</strong></li>
+        <li><span>山河决定地图</span><strong>二　山河的地图</strong></li>
+        <li><span>车是腿，慢是快</span><strong>三　路上的驾驶学</strong></li>
+        <li><span>看墙色认教派</span><strong>四　信仰的世界</strong></li>
+        <li><span>手艺是还在运转的产业</span><strong>五　手艺的文明</strong></li>
+        <li><span>材料决定房子</span><strong>六　建筑的方言</strong></li>
       </ul>
       <h3>与人相处</h3>
       <p><strong>牧民。</strong> 牛羊是牧民的主要家当。遇到牧群，放慢车速、不鸣笛，等它们过。拍牧民和牲畜，先打招呼再举相机。牧场的帐篷和围栏，不随便进。</p>
@@ -219,7 +219,7 @@
 
     <!-- 一、高原的秩序 -->
     <section class="part" id="order">
-      <div class="part__head"><span class="part__no" aria-hidden="true">一</span><h2><strong>高原的秩序</strong></h2></div>
+      <div class="part__head"><span class="part__no" aria-hidden="true">一</span><h2>高原的秩序</h2></div>
       <p class="part__lead">海拔决定秩序。</p>
       <p>进川西先认海拔。<strong>3000米是一道门槛</strong>，多数人的高反从这里开始。行程按海拔排，不按景点排：一天的路程控制在两三小时山路，下午留白看天，天气不对就提前收车。景点不会消失，路况和天气才是当天的变量。</p>
       <p>窗口期。<strong>5到6月、9到10月中是全年最稳的时段</strong>。雨季6到8月以夜雨为主，白天多数能走。冬季也能走，但救援半径长，一台车陷在无人垭口，代价远超省下的时间。</p>
@@ -230,7 +230,7 @@
 
     <!-- 二、山河的地图 -->
     <section class="part" id="terrain">
-      <div class="part__head"><span class="part__no" aria-hidden="true">二</span><h2><strong>山河的地图</strong></h2></div>
+      <div class="part__head"><span class="part__no" aria-hidden="true">二</span><h2>山河的地图</h2></div>
       <p class="part__lead">山河决定地图。山脉怎么切，路就怎么修。</p>
       <p>川西怎么来的。约4000万到5000万年前，印度板块撞上欧亚板块，把一片浅海抬成陆地，就是青藏高原，川西在高原的东南缘。碰撞到现在没停，高原还在缓慢升高。</p>
       <p>山脉全是南北走向。横断山把川西切成一列列山岭，从东往西：邛崃山，四姑娘山在主脊上；大雪山，贡嘎山海拔7508.9米，蜀山之王；沙鲁里山；雀儿山。山与山之间夹着河谷，路顺着河谷修，镇子落在河谷里。<strong>川西的聚落跟着山河走，不跟着行政区划走。</strong></p>
@@ -243,7 +243,7 @@
 
     <!-- 三、路上的驾驶学 -->
     <section class="part" id="driving">
-      <div class="part__head"><span class="part__no" aria-hidden="true">三</span><h2><strong>路上的驾驶学</strong></h2></div>
+      <div class="part__head"><span class="part__no" aria-hidden="true">三</span><h2>路上的驾驶学</h2></div>
       <p class="part__lead">车是腿，慢是快。一半技术，一半克制。</p>
       <p>川西路上要让的，是大货车和牧民的牛羊。弯道不超车。<strong>让路是这条路的默认礼节</strong>。</p>
       <p>高原开车有两个隐性风险。长下坡一直踩刹车会热衰减，要用低挡位和发动机制动；超车动力衰减，要留出比平原长得多的余量。冰雪路面上，四驱也一样打滑，<strong>慢才是安全</strong>。</p>
@@ -261,7 +261,7 @@
 
     <!-- 四、信仰的世界 -->
     <section class="part" id="faith">
-      <div class="part__head"><span class="part__no" aria-hidden="true">四</span><h2><strong>信仰的世界</strong></h2></div>
+      <div class="part__head"><span class="part__no" aria-hidden="true">四</span><h2>信仰的世界</h2></div>
       <p class="part__lead">看墙色，认教派。</p>
       <p>川西在藏文化版图里的位置。藏区习惯分成三大块：拉萨一带的卫藏，青海甘肃的安多，还有以甘孜、昌都为核心的康巴。康巴人性格外放，「康巴汉子」的名声就是这么来的。和卫藏、安多不同，川西<strong>没有哪个教派一家独大</strong>。甘孜州登记的藏传佛教寺院有515座，宁玛、格鲁、萨迦、噶举、苯教五大教派齐全，哪个都占不到一半。一次看全这些派别，别处凑不齐。</p>
       <p>认教派，看寺庙外墙的颜色。宁玛派叫<strong>红教</strong>，是最古老的派别，多随牧区分布。萨迦派叫<strong>花教</strong>，寺墙刷红、白、黑三色条纹，据说是文殊、观音、金刚手三位菩萨的象征。噶举派叫<strong>白教</strong>，叫法来自早期僧人穿白衣的传承，四川藏区的祖寺是德格的八邦寺。格鲁派叫<strong>黄教</strong>，传入最晚，理塘的长青春科尔寺是康区最早的格鲁派寺院。还有苯教，比藏传佛教更古老的本地信仰，没有对应的颜色称呼，它在川西的地位比在西藏老家还高，<strong>阿坝县的郎依寺，是国内外现存规模最大的苯教寺院</strong>，阿坝金川的雍忠拉顶寺一带被称为「第二象雄」——也就是苯教文化的第二个中心。</p>
@@ -274,7 +274,7 @@
 
     <!-- 五、手艺的文明 -->
     <section class="part" id="craft">
-      <div class="part__head"><span class="part__no" aria-hidden="true">五</span><h2><strong>手艺的文明</strong></h2></div>
+      <div class="part__head"><span class="part__no" aria-hidden="true">五</span><h2>手艺的文明</h2></div>
       <p class="part__lead">还在挣钱的传承，才是活传承。</p>
       <p>麦宿在德格县金沙江东岸的河谷里，六千多居民有两千多位工匠，分布在三十多个工坊，做十六种手工艺。黑陶、铜铸、唐卡、木雕、藏香、藏纸、藏戏面具、金银加工、牛羊毛编织，被称为「中国藏族传统手工艺之乡」。<strong>它不是摆在展柜里的「非遗秀」</strong>。寺庙要佛像法器，本地人过日子要锅碗和经堂装饰，订单一直不断。麦宿进出不易，外头的东西不好运进来，要用的、要供的都得自己做，手艺就一代代传了下来。最出名的铜铸佛像，老匠人夏雷尼玛的鎏金铜是内地近乎失传的古法，他做的佛像因为工艺古朴精良，常被人冒充古董倒卖，甚至流到了国外。他女儿拍的《麦宿泥塑》纪录片，拿过国际手工艺视频大赛的一等奖。钦乐工坊还在用砂模、失蜡法铸利玛铜。后来县里建了扶贫车间，挂出「麦宿手造」的品牌，2024年还到成都开了集市。从一块铜皮到一尊佛像，工坊里能看到整套流程。手工工坊有现货，机压翻模的是仿品。</p>
       <p>白玉河坡号称「格萨尔王的兵器库」，1300多年前就开始铸兵器，现在是国家级非遗「藏族金属锻造技艺」的代表，白玉藏刀最有名。13个行政村、230多家非遗工坊，<strong>是全国最大的藏族金属锻造群落</strong>，年订单超过1200万元。2025年8月，河坡手工艺文旅体融合园区开园，建了藏族金工博物馆。</p>
@@ -286,7 +286,7 @@
 
     <!-- 六、建筑的方言 -->
     <section class="part" id="dwelling">
-      <div class="part__head"><span class="part__no" aria-hidden="true">六</span><h2><strong>建筑的方言</strong></h2></div>
+      <div class="part__head"><span class="part__no" aria-hidden="true">六</span><h2>建筑的方言</h2></div>
       <p class="part__lead">材料决定房子。</p>
       <p>川西的民居，藏寨是主流。石、木、土，山上出什么料就盖什么房，材料定了骨架，骨架定了长相。</p>
       <p>嘉绒藏寨与古碉，在丹巴一带最出名。石木结构，片石砌墙，房子依山势叠在山坡上，顶层外缘围一圈黄、黑、白三色带。甲居藏寨评上「中国最美的六大乡村古镇」之首，中路藏寨海拔2100米。丹巴古碉鼎盛时号称「千碉之国」，梭坡乡的古碉群，<strong>是全世界古碉最密集的地方</strong>。碉楼按功能分要隘碉、烽火碉、寨碉、家碉四类，还分雌雄。</p>

diff --git a/gen_cards.py b/gen_cards.py
@@ -13,7 +13,7 @@ FLAG = ('<span style="background:var(--flag-blue)"></span>'
 
 # ---- 网页内容块，原样搬运 ----
 
-KEYS = ('<ul class="card__keys"><li><span>海拔决定秩序</span><b>一 高原的秩序</b></li> <li><span>山河决定地图</span><b>二 山河的地图</b></li> <li><span>车是腿，慢是快</span><b>三 路上的驾驶学</b></li> <li><span>看墙色认教派</span><b>四 信仰的世界</b></li> <li><span>手艺是还在运转的产业</span><b>五 手艺的文明</b></li> <li><span>材料决定房子</span><b>六 建筑的方言</b></li></ul>')
+KEYS = ('<ul class="card__keys"><li><span>海拔决定秩序</span><strong>一 高原的秩序</strong></li> <li><span>山河决定地图</span><strong>二 山河的地图</strong></li> <li><span>车是腿，慢是快</span><strong>三 路上的驾驶学</strong></li> <li><span>看墙色认教派</span><strong>四 信仰的世界</strong></li> <li><span>手艺是还在运转的产业</span><strong>五 手艺的文明</strong></li> <li><span>材料决定房子</span><strong>六 建筑的方言</strong></li></ul>')
 
 PAGE1 = [
   ('kicker', '李大妈的自驾路书'),
@@ -32,14 +32,14 @@ BODY_STREAM = [
   ('p', '<strong>司机和本地人。</strong> 见面一句「扎西德勒」，气氛就开了。问路、问价，态度客气，多数人都愿意答。高原上的人大多直接，不绕弯，打交道也直接。'),
   ('p', '<strong>买东西。</strong> 讲好价就认，不反复缠价。看上了再还价，压完不买最伤和气。'),
   ('p', '<strong>拍照。</strong> 拍人先问，拍寺院内部和法会先看有没有禁令。相机镜头对着人的时候，先问一句，多数人会同意的。'),
-  ('h2', '<strong>高原的秩序</strong>'),
+  ('h2', '高原的秩序'),
   ('lead', '海拔决定秩序。'),
   ('p', '进川西先认海拔。<strong>3000米是一道门槛</strong>，多数人的高反从这里开始。行程按海拔排，不按景点排：一天的路程控制在两三小时山路，下午留白看天，天气不对就提前收车。景点不会消失，路况和天气才是当天的变量。'),
   ('p', '窗口期。<strong>5到6月、9到10月中是全年最稳的时段</strong>。雨季6到8月以夜雨为主，白天多数能走。冬季也能走，但救援半径长，一台车陷在无人垭口，代价远超省下的时间。'),
   ('p', '防高反。从低到高慢慢爬，头两天不在3500米以上过夜。氧气不足的典型信号是头痛、睡不着、没胃口，多数人两三天能适应。乙酰唑胺遵医嘱提前吃，布洛芬缓解头痛，红景天提前一周吃，只作辅助。指夹式血氧仪测血氧，<strong>掉到90%以下就停，不硬撑</strong>。夜里头痛加重、白天精神很差、走路发飘，是危险信号，撤到低海拔。'),
   ('p', '补给认准县城。<strong>进县城加满油</strong>，一离开县城就默认补给消失，往深处走，一律当天往返。'),
   ('p', '离线地图出发前下好，<strong>自救物资可以不用，但不能没有</strong>。冬季走，车上常备防滑链。'),
-  ('h2', '<strong>山河的地图</strong>'),
+  ('h2', '山河的地图'),
   ('lead', '山河决定地图。山脉怎么切，路就怎么修。'),
   ('p', '川西怎么来的。约4000万到5000万年前，印度板块撞上欧亚板块，把一片浅海抬成陆地，就是青藏高原，川西在高原的东南缘。碰撞到现在没停，高原还在缓慢升高。'),
   ('p', '山脉全是南北走向。横断山把川西切成一列列山岭，从东往西：邛崃山，四姑娘山在主脊上；大雪山，贡嘎山海拔7508.9米，蜀山之王；沙鲁里山；雀儿山。山与山之间夹着河谷，路顺着河谷修，镇子落在河谷里。<strong>川西的聚落跟着山河走，不跟着行政区划走。</strong>'),
@@ -48,7 +48,7 @@ BODY_STREAM = [
   ('p', '川西地震多，因为它在鲜水河断裂带上。这条断裂带从中部纵贯，历史上强震不断。对旅行者，最实在的是<strong>路况随时可能因塌方管制</strong>；很多陡崖和河谷的走向，就是断裂带运动的痕迹。'),
   ('p', '植被随海拔分层，从山谷到垭口一路换。2500米以下是针阔混交林；2500到3500米是云杉冷杉的针叶林，高山杜鹃夹在林里；3500到4500米是高山灌丛和高山草甸，冬虫夏草、雪茶都长在这一层；4500米以上是流石滩，雪莲贴着碎石长。<strong>同一条路翻几座山，一天走完四个植被带，别处南北几千公里才有的植被变化，在这里按海拔一层层排</strong>。'),
   ('p', '吃的也跟海拔走。青稞是高原的当家作物，炒熟磨成糌粑，拌上酥油茶捏成团，是藏人的日常主食；酥油茶用砖茶和酥油熬，热量高、解渴御寒，当地有<strong>「宁可三日无肉，不可一日无茶」</strong>的说法。牦牛在海拔3500米以上放养，肉干、火锅、炖汤都常见；血肠是待客的上等菜，牛血或羊血和肉丁灌进小肠煮熟。松茸这类菌子长在森林里，集中在金沙江、雅砻江、大渡河上中游的高山峡谷，夏秋雨后出得多，炖鸡、涮锅都常吃。这些不用刻意找，路边饭馆的菜单上就有。'),
-  ('h2', '<strong>路上的驾驶学</strong>'),
+  ('h2', '路上的驾驶学'),
   ('lead', '车是腿，慢是快。一半技术，一半克制。'),
   ('p', '川西路上要让的，是大货车和牧民的牛羊。弯道不超车。<strong>让路是这条路的默认礼节</strong>。'),
   ('p', '高原开车有两个隐性风险。长下坡一直踩刹车会热衰减，要用低挡位和发动机制动；超车动力衰减，要留出比平原长得多的余量。冰雪路面上，四驱也一样打滑，<strong>慢才是安全</strong>。'),
@@ -59,7 +59,7 @@ BODY_STREAM = [
   ('p', '川西这两年变化快。2025年6月甘孜州18个公路养护站和14个快充站投运，理塘到稻城段充电桩最大间距125公里；318沿线超300个充电桩，快充占七成以上。密度从东往西递减：成都到康定每30到50公里一个快充；康定、新都桥、雅江、理塘每80到150公里；理塘往稻城亚丁、新都桥往塔公八美每150到200公里。冷嘎措、格聂、若尔盖穿越段还是盲区。实际体验要打折：约一成五的桩故障或被燃油车占位，节假日热门站排队可能超一小时。高原续航缩水约三四成。<strong>电量低于三成就找桩</strong>，进景区前在县城充到八成以上。查桩用特来电、国网e充电、星星充电的App，或高德的新能源模式。'),
   ('h3', '封路信息'),
   ('p', '两类封路最常见：汛期6到8月塌方落石，抢修期间半幅放行或管制；冬季11月到次年3、4月冬管，比如九绵高速夜间20点到次日8点禁行，夹金山段整个冬天双向禁行，理小路冬天全段禁行。截至2026年8月17日，阿坝州正实行货车临时管制（过境4轴及以上货车白天7点到21点禁行），同时处在汛期，山洪预警可能随时发布。<strong>G317马尔康到观音桥段，自2025年11月红旗特大桥垮塌后一直中断</strong>，绕行走壤塘、阿坝、红原方向，约多3小时；官方便道工程预计2026年9月底至10月初通车。官方渠道：阿坝州政府官网阿坝路况专栏、四川发布和成都发布公众号、高速救援12122、报警96122。<strong>官方路况和高德，出发当天交叉核对</strong>。'),
-  ('h2', '<strong>信仰的世界</strong>'),
+  ('h2', '信仰的世界'),
   ('lead', '看墙色，认教派。'),
   ('p', '川西在藏文化版图里的位置。藏区习惯分成三大块：拉萨一带的卫藏，青海甘肃的安多，还有以甘孜、昌都为核心的康巴。康巴人性格外放，「康巴汉子」的名声就是这么来的。和卫藏、安多不同，川西<strong>没有哪个教派一家独大</strong>。甘孜州登记的藏传佛教寺院有515座，宁玛、格鲁、萨迦、噶举、苯教五大教派齐全，哪个都占不到一半。一次看全这些派别，别处凑不齐。'),
   ('p', '认教派，看寺庙外墙的颜色。宁玛派叫<strong>红教</strong>，是最古老的派别，多随牧区分布。萨迦派叫<strong>花教</strong>，寺墙刷红、白、黑三色条纹，据说是文殊、观音、金刚手三位菩萨的象征。噶举派叫<strong>白教</strong>，叫法来自早期僧人穿白衣的传承，四川藏区的祖寺是德格的八邦寺。格鲁派叫<strong>黄教</strong>，传入最晚，理塘的长青春科尔寺是康区最早的格鲁派寺院。还有苯教，比藏传佛教更古老的本地信仰，没有对应的颜色称呼，它在川西的地位比在西藏老家还高，<strong>阿坝县的郎依寺，是国内外现存规模最大的苯教寺院</strong>，阿坝金川的雍忠拉顶寺一带被称为「第二象雄」——也就是苯教文化的第二个中心。'),
@@ -68,7 +68,7 @@ BODY_STREAM = [
   ('p', '和信仰打交道，有几条规矩：<strong>绕行一律顺时针，只有苯教是逆时针</strong>。磕长头是身敬、语敬、意敬三者合一，额头叩地的瞬间，心里同时念咒、观想，这是他们能磕几千公里的原因。煨桑是烧香柏枝，敬献给神佛的香火，也是祈愿的仪式。献哈达要看对象：白色最普遍，黄色献给活佛和高僧，五彩哈达被视为菩萨的衣裳，只在隆重场合用。<strong>哈达只递到对方手里，不能挂脖子上，只有长辈给晚辈才往脖子上搭</strong>。天葬是藏人把遗体布施给神鹰，被认为是最高的舍身布施，<strong>全程严禁围观、拍照，当地有明文规定，连打听都不要</strong>。另有几条硬规矩：<strong>不摸别人的头，佛像、唐卡、经书不指</strong>，非要指就五指并拢、手心朝上，不进人家供奉的佛堂，不取献给塔上的供品，过门槛不踩。'),
   ('p', '川西的佛学院，把藏地的学问办在草原和山沟里。寺院的分科叫「五明」：工巧明是工艺，医方明是医学，声明是语言文字，因明是逻辑论辩，内明是佛学；再加上修辞、辞藻、韵律、戏剧、历算五科，合称「十明」。色达的喇荣、白玉的亚青、德格的佐钦，都是宁玛派的大佛学院，学通五明的僧人，藏语称「班智达」。'),
   ('p', '三大佛学院里，亚青寺最出名的是觉姆岛。它在白玉县昌台草原，1985年由阿秋仁波切创建，是宁玛派的修行地。昌曲河绕寺流过，把女众修行区围成一座河心岛，就是「觉姆岛」，岛上密布上万间绛红色小木屋，住的是觉姆，也就是藏地的女性出家人。屋子是她们自己伐木、夯土、一钉一板搭起来的，每间不足十平方米，屋顶压着塑料布和泥土。<strong>成年男性不上觉姆岛</strong>，岛外的男众不过桥。每年入冬，觉姆们钻进一间仅容一人的小屋，百日闭关，黄昏后才走出。山坡上立着一尊巨大的莲花生大师金像。'),
-  ('h2', '<strong>手艺的文明</strong>'),
+  ('h2', '手艺的文明'),
   ('lead', '还在挣钱的传承，才是活传承。'),
   ('p', '麦宿在德格县金沙江东岸的河谷里，六千多居民有两千多位工匠，分布在三十多个工坊，做十六种手工艺。黑陶、铜铸、唐卡、木雕、藏香、藏纸、藏戏面具、金银加工、牛羊毛编织，被称为「中国藏族传统手工艺之乡」。<strong>它不是摆在展柜里的「非遗秀」</strong>。寺庙要佛像法器，本地人过日子要锅碗和经堂装饰，订单一直不断。麦宿进出不易，外头的东西不好运进来，要用的、要供的都得自己做，手艺就一代代传了下来。最出名的铜铸佛像，老匠人夏雷尼玛的鎏金铜是内地近乎失传的古法，他做的佛像因为工艺古朴精良，常被人冒充古董倒卖，甚至流到了国外。他女儿拍的《麦宿泥塑》纪录片，拿过国际手工艺视频大赛的一等奖。钦乐工坊还在用砂模、失蜡法铸利玛铜。后来县里建了扶贫车间，挂出「麦宿手造」的品牌，2024年还到成都开了集市。从一块铜皮到一尊佛像，工坊里能看到整套流程。手工工坊有现货，机压翻模的是仿品。'),
   ('p', '白玉河坡号称「格萨尔王的兵器库」，1300多年前就开始铸兵器，现在是国家级非遗「藏族金属锻造技艺」的代表，白玉藏刀最有名。13个行政村、230多家非遗工坊，<strong>是全国最大的藏族金属锻造群落</strong>，年订单超过1200万元。2025年8月，河坡手工艺文旅体融合园区开园，建了藏族金工博物馆。'),
@@ -76,7 +76,7 @@ BODY_STREAM = [
   ('p', '德格印经院本身是一门还在运转的印刷产业。1729年建，藏了32万余块雕版，其中古旧印版22.8万块，<strong>是全世界手工木刻印版藏量最多的地方</strong>。经版内容不止经文：宗教、历史、医学、天文历算、文学、艺术都有，「藏文化大百科全书」这个外号就是这么来的。'),
   ('p', '印刷是流水线工序：裁纸、泡纸、兑墨、研朱砂、印刷、晾晒、分页、核对、装订，十几道。印经书三人一组，一高一矮相对坐，高者固定印纸刷墨，矮者递纸、用卷布滚筒滚印，配合熟练的一天印2400张4800页。材料也讲究：<strong>藏纸用瑞香狼毒草的根，含毒，虫不蛀、鼠不咬</strong>；雕版用海拔3000米以上的红桦木，微火熏烤、水煮、烘干，刻好的版要过12次审校，在酥油里泡一天才算完成。'),
   ('p', '<strong>印经院至今没通电</strong>，是怕火险伤经版，游客就着天光看印刷间。古旧经版现在限量印刷，近十年复刻了2.2万余块新版供印，古版封存，印版修复每年补刻230余块。2006年它进了国家级非遗，2009年被联合国教科文组织列入人类非物质文化遗产代表作名录。'),
-  ('h2', '<strong>建筑的方言</strong>'),
+  ('h2', '建筑的方言'),
   ('lead', '材料决定房子。'),
   ('p', '川西的民居，藏寨是主流。石、木、土，山上出什么料就盖什么房，材料定了骨架，骨架定了长相。'),
   ('p', '嘉绒藏寨与古碉，在丹巴一带最出名。石木结构，片石砌墙，房子依山势叠在山坡上，顶层外缘围一圈黄、黑、白三色带。甲居藏寨评上「中国最美的六大乡村古镇」之首，中路藏寨海拔2100米。丹巴古碉鼎盛时号称「千碉之国」，梭坡乡的古碉群，<strong>是全世界古碉最密集的地方</strong>。碉楼按功能分要隘碉、烽火碉、寨碉、家碉四类，还分雌雄。'),
@@ -150,7 +150,7 @@ CSS = """
     text-align:center;margin:26px 0 8px;
   }
   .card__meta{
-    font-family:var(--sans);font-size:22px;line-height:1.7;
+    font-family:var(--serif);font-size:22px;line-height:1.7;
     text-align:center;color:var(--dim);margin-bottom:6px;
   }
 
@@ -185,8 +185,8 @@ CSS = """
     padding:16px 2px;
   }
   .card__keys li:last-child{border-bottom:none;}
-  .card__keys li b{
-    color:var(--vermilion);font-weight:600;font-size:26px;
+  .card__keys li strong{
+    font-size:26px;
     font-family:var(--sans);letter-spacing:.06em;white-space:nowrap;
   }
 
